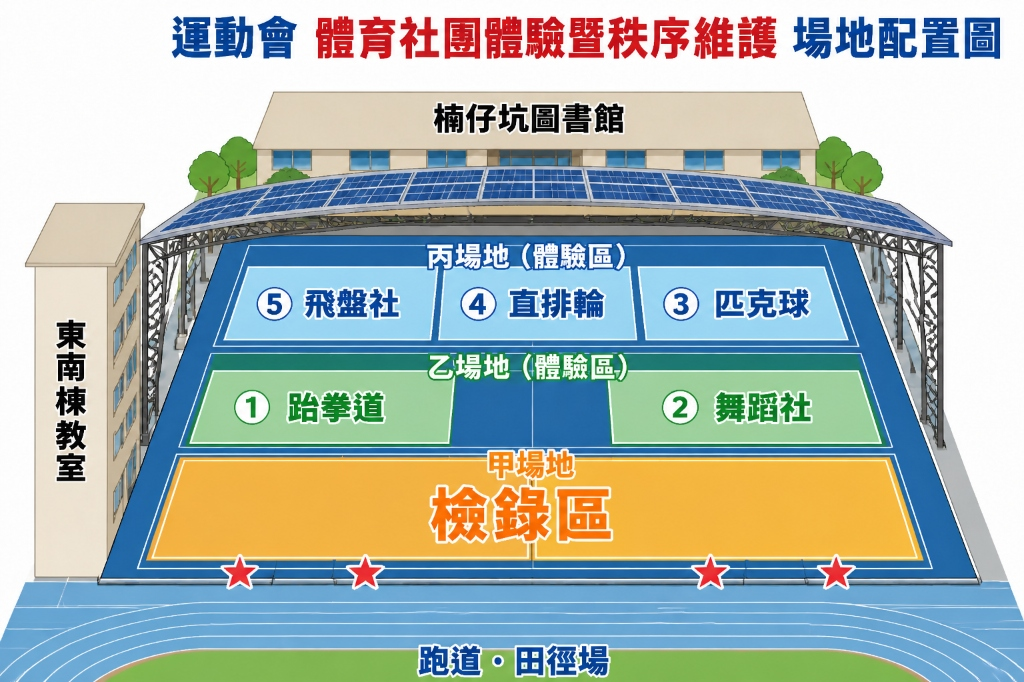
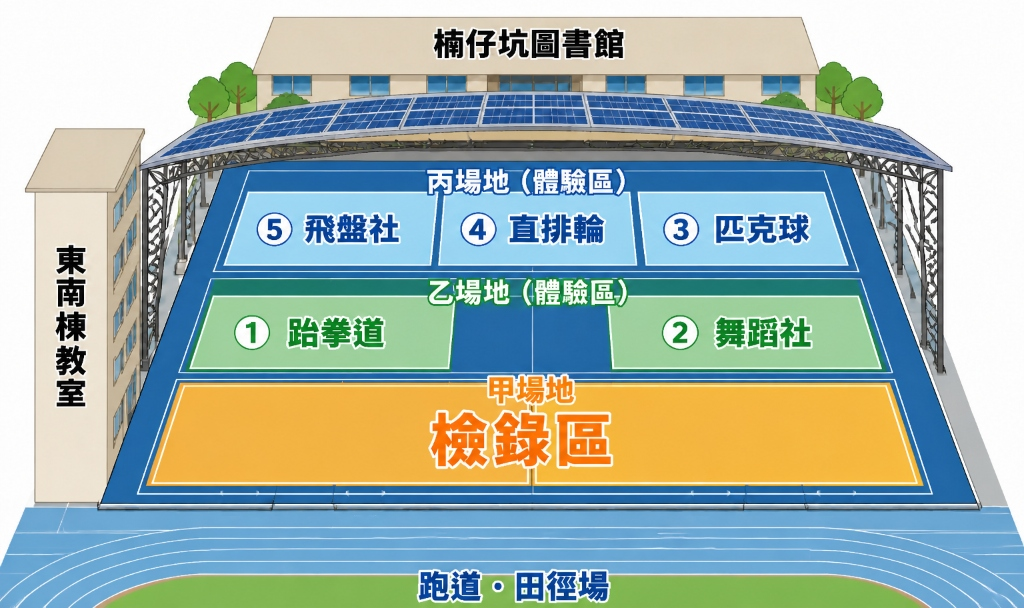
更換新版體育闖關場地圖並升級聚光燈發光效果

diff --git a/index.html b/index.html
@@ -697,25 +697,25 @@ html.ov-transparent body::before{ display:none; }
 .ar-sign{ display:flex; align-items:flex-end; gap:8px; justify-content:flex-end; padding:6px 14px 10px; font-weight:700; color:#46596B; } .ar-sign .box{ display:inline-block; width:140px; border-bottom:1.5px dashed #9AAABB; height:24px; }
 .ar-missing{ margin-top:10px; padding:8px 12px; border:1.5px dashed #C99A00; border-radius:10px; color:#6B4E00; font-weight:700; }
 .print-only{ display:none; }
-/* 體育社團體驗區 互動發光場地地圖 */
+/* 體育社團體驗區 互動發光場地地圖（真正聚光燈：選中區明亮銳利發光、其餘區域自動變暗） */
 .st-map-wrap{ position:relative; display:inline-block; width:100%; max-width:920px; border-radius:14px; overflow:hidden; border:2px solid var(--line); box-shadow:0 6px 24px rgba(15,23,42,.10); background:#0f172a; user-select:none; }
-.st-map-wrap img{ display:block; width:100%; height:auto; transition:filter .35s ease; }
-.st-map-wrap.has-active img{ filter:brightness(.76) saturate(.9); }
-.st-zone{ position:absolute; border-radius:10px; border:2.5px solid rgba(255,255,255,.55); background:rgba(255,255,255,.06); cursor:pointer; transition:all .28s cubic-bezier(.22,1,.36,1); display:flex; align-items:center; justify-content:center; padding:0; }
-.st-zone:hover{ border-color:#fde047; background:rgba(254,240,138,.22); transform:scale(1.02); z-index:4; }
-.st-zone.active{ border:3.5px solid #facc15; background:rgba(254,240,138,.36); box-shadow:0 0 0 4px rgba(250,204,21,.45), 0 0 28px 8px rgba(250,204,21,.75), inset 0 0 18px rgba(255,255,255,.55); transform:scale(1.045); z-index:6; animation:stPulse 1.35s ease-in-out infinite; }
-.st-zone-pin{ position:absolute; top:-34px; left:50%; transform:translateX(-50%); background:#0f172a; color:#fef08a; border:2px solid #facc15; padding:3px 10px; border-radius:999px; font-size:13px; font-weight:900; white-space:nowrap; box-shadow:0 6px 14px rgba(0,0,0,.35); animation:stPinBounce .85s ease-in-out infinite; pointer-events:none; }
-.st-zone-pin::after{ content:''; position:absolute; left:50%; bottom:-7px; transform:translateX(-50%); border:6px solid transparent; border-top-color:#facc15; border-bottom:0; }
+.st-map-wrap img{ display:block; width:100%; height:auto; }
+.st-zone{ position:absolute; border-radius:10px; border:2px solid rgba(255,255,255,.55); background:transparent; cursor:pointer; transition:all .28s cubic-bezier(.22,1,.36,1); display:flex; align-items:center; justify-content:center; padding:0; z-index:2; }
+.st-map-wrap.has-active .st-zone:not(.active){ border-color:rgba(255,255,255,.22); opacity:.45; z-index:1; }
+.st-zone:hover{ border-color:#fde047; background:rgba(254,240,138,.12); transform:scale(1.02); z-index:4; }
+.st-zone.active{ border:3.5px solid #FFE047; background:transparent; backdrop-filter:brightness(1.12) contrast(1.08) saturate(1.1); -webkit-backdrop-filter:brightness(1.12) contrast(1.08) saturate(1.1); box-shadow:0 0 0 9999px rgba(8,18,36,.56), 0 0 0 4px rgba(255,224,71,.7), 0 0 26px 8px rgba(255,214,10,.95), inset 0 0 14px rgba(255,255,255,.5); transform:scale(1.03); z-index:8; animation:stPulse 1.4s ease-in-out infinite; }
+.st-zone-pin{ position:absolute; top:-38px; left:50%; transform:translateX(-50%); background:#0f172a; color:#FFF7B2; border:2px solid #FFE047; padding:4px 12px; border-radius:999px; font-size:14px; font-weight:900; white-space:nowrap; box-shadow:0 6px 18px rgba(0,0,0,.5); animation:stPinBounce .9s ease-in-out infinite; pointer-events:none; z-index:10; }
+.st-zone-pin::after{ content:''; position:absolute; left:50%; bottom:-7px; transform:translateX(-50%); border:6px solid transparent; border-top-color:#FFE047; border-bottom:0; }
 .st-dot{ position:absolute; top:5px; right:5px; width:12px; height:12px; border-radius:999px; border:2px solid #fff; box-shadow:0 1px 4px rgba(0,0,0,.45); }
 .st-dot.open{ background:#22c55e; animation:stDotBlink 1.8s ease-in-out infinite; }
 .st-dot.busy{ background:#f97316; animation:stDotBlink 1.1s ease-in-out infinite; }
 .st-dot.pause{ background:#94a3b8; }
 .st-dot.done{ background:#475569; }
 .st-card-active{ border:2.5px solid #f59e0b !important; box-shadow:0 0 0 4px rgba(245,158,11,.22), 0 8px 20px rgba(245,158,11,.15) !important; background:#fffbeb !important; }
-@keyframes stPulse{ 0%,100%{ box-shadow:0 0 0 3px rgba(250,204,21,.45), 0 0 22px 6px rgba(250,204,21,.7), inset 0 0 14px rgba(255,255,255,.45); } 50%{ box-shadow:0 0 0 8px rgba(250,204,21,.22), 0 0 36px 12px rgba(250,204,21,.95), inset 0 0 24px rgba(255,255,255,.72); } }
+@keyframes stPulse{ 0%,100%{ box-shadow:0 0 0 9999px rgba(8,18,36,.56), 0 0 0 3px rgba(255,224,71,.65), 0 0 22px 6px rgba(255,214,10,.85), inset 0 0 12px rgba(255,255,255,.45); } 50%{ box-shadow:0 0 0 9999px rgba(8,18,36,.56), 0 0 0 6px rgba(255,224,71,.35), 0 0 34px 12px rgba(255,214,10,1), inset 0 0 20px rgba(255,255,255,.7); } }
 @keyframes stPinBounce{ 0%,100%{ transform:translate(-50%,0); } 50%{ transform:translate(-50%,-6px); } }
 @keyframes stDotBlink{ 0%,100%{ opacity:1; transform:scale(1); } 50%{ opacity:.6; transform:scale(1.22); } }
-@media (max-width:640px){ .st-zone-pin{ font-size:11px; padding:2px 7px; top:-28px; } .st-dot{ width:10px; height:10px; } }
+@media (max-width:640px){ .st-zone-pin{ font-size:12px; padding:3px 9px; top:-32px; } .st-dot{ width:10px; height:10px; } }
 .sh-foot{ margin-top:16px; font-size:13px; color:#6A7B8C; display:flex; justify-content:space-between; flex-wrap:wrap; gap:8px; border-top:1px solid #D2DCE6; padding-top:8px; }
 @media (max-width:640px){ .paper{ padding:16px 12px; } .paper .sh-title{ font-size:22px; } .sh-tbl{ font-size:15px; } .sh-place{ min-width:58px; font-size:15px; } .sh-sign{ display:none; } .sh-cls,.sh-name{ font-size:16px; } }
 
@@ -3030,7 +3030,7 @@ html, body{ overflow-x:clip; max-width:100%; }
           </div>
           <div class="flex gap-2 flex-wrap no-print">
             <button v-if="activeStationId" class="btn btn-sm" @click="activeStationId=''">取消高亮</button>
-            <a href="stations-map.jpg" target="_blank" rel="noopener" class="btn btn-sm">🔍 看原圖</a>
+            <a href="stations-map.jpg?v=20261127" target="_blank" rel="noopener" class="btn btn-sm">🔍 看原圖</a>
           </div>
         </div>
         <!-- 快速關卡切換按鈕（點哪一關，地圖就亮哪一關） -->
@@ -3041,7 +3041,7 @@ html, body{ overflow-x:clip; max-width:100%; }
         </div>
         <div style="text-align:center">
           <div :class="['st-map-wrap', {'has-active': !!activeStationId}]">
-            <img src="stations-map.jpg" alt="運動會體育社團體驗暨秩序維護場地配置圖">
+            <img src="stations-map.jpg?v=20261127" alt="運動會體育社團體驗暨秩序維護場地配置圖">
             <button v-for="(x,idx) in st.stations" :key="x.id" v-show="stationZoneOf(x,idx)" type="button" :class="['st-zone', {active: activeStationId===x.id}]" :style="stationZoneOf(x,idx)" :aria-label="x.name+'（'+STA[x.status].label+'）'" @click="pickStation(x, false)">
               <span v-if="activeStationId===x.id" class="st-zone-pin">📍 {{ x.name }}・{{ STA[x.status].short }}</span>
               <span :class="['st-dot', x.status]" :title="STA[x.status].label"></span>
@@ -5386,11 +5386,11 @@ createApp({
     const giftText = computed(()=>'【感謝芳名錄】楠梓國小'+st.value.settings.title+'\n感謝以下單位與個人熱心捐贈：\n'+st.value.gifts.map(g=>'・'+g.donor+'　'+g.item).join('\n')+'\n謹致謝忱！');
     const activeStationId = ref('');
     const STATION_ZONES = [
-      { match:/跆拳道|^1\b|第1/, style:{ left:'18.2%', top:'53.2%', width:'26.2%', height:'13.2%' } },
-      { match:/舞蹈|^2\b|第2/,   style:{ left:'59.4%', top:'53.2%', width:'26.2%', height:'13.2%' } },
-      { match:/匹克球|^3\b|第3/, style:{ left:'62.8%', top:'38.6%', width:'21.8%', height:'11.8%' } },
-      { match:/直排輪|^4\b|第4/, style:{ left:'42.6%', top:'38.6%', width:'19.6%', height:'11.8%' } },
-      { match:/飛盤|^5\b|第5/,   style:{ left:'20.2%', top:'38.6%', width:'21.8%', height:'11.8%' } },
+      { match:/跆拳道|^1\b|第1/, style:{ left:'18.2%', top:'48.2%', width:'26.2%', height:'12.8%' } },
+      { match:/舞蹈|^2\b|第2/,   style:{ left:'59.2%', top:'48.2%', width:'26.8%', height:'12.8%' } },
+      { match:/匹克球|^3\b|第3/, style:{ left:'62.8%', top:'31.2%', width:'20.6%', height:'12.6%' } },
+      { match:/直排輪|^4\b|第4/, style:{ left:'43.1%', top:'31.2%', width:'19.0%', height:'12.6%' } },
+      { match:/飛盤|^5\b|第5/,   style:{ left:'21.8%', top:'31.2%', width:'20.6%', height:'12.6%' } },
     ];
     function stationZoneOf(x, idx){
       const name = String((x && x.name) || '');
